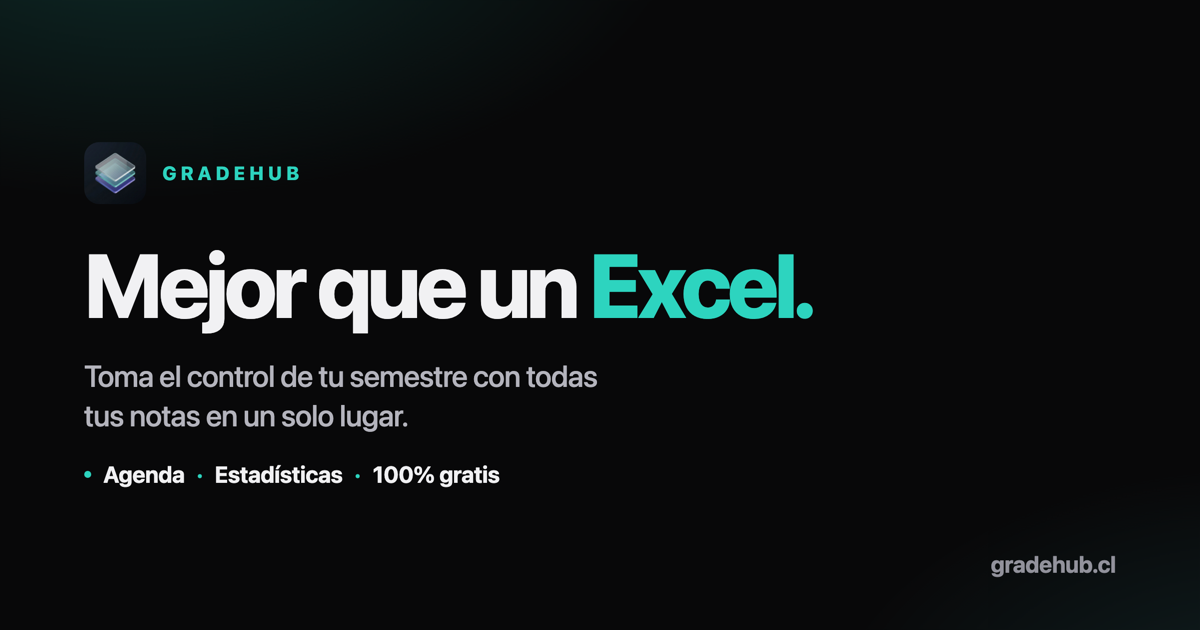
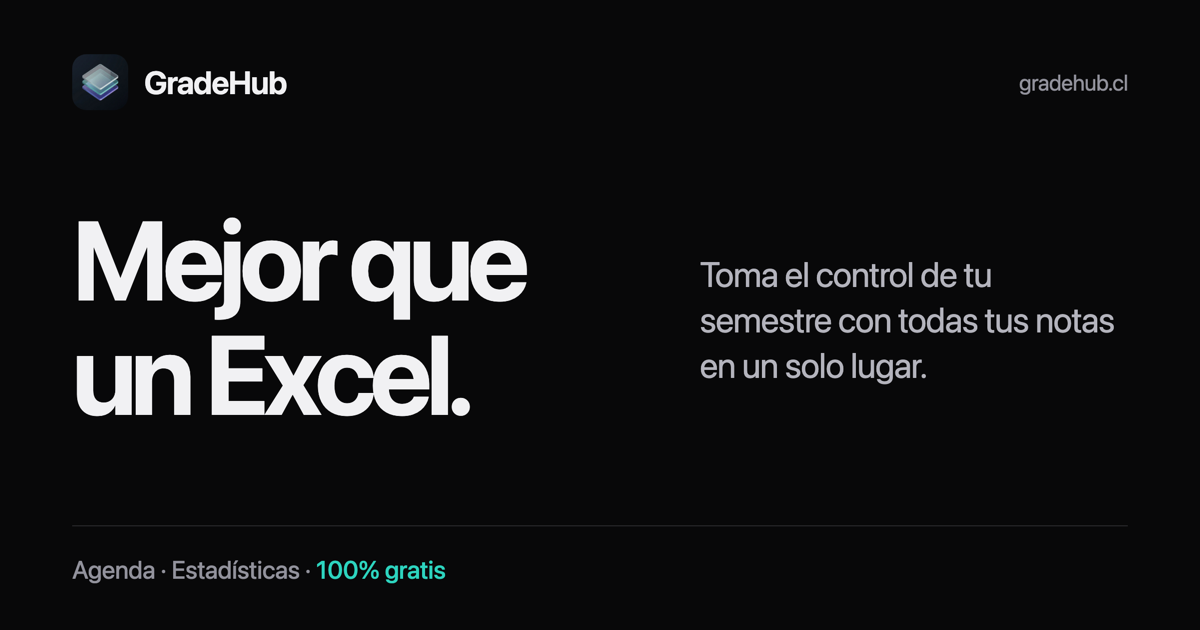
Que compartir GradeHub refleje la claridad de la app

diff --git a/bin/og-editorial.html b/bin/og-editorial.html
@@ -1,0 +1,68 @@
+<!doctype html>
+<!--
+GradeHub · tarjeta social editorial. Fuente de ../og-v2.png.
+Composición: marca como cabecera, titular y bajada en dos columnas,
+claim subordinado en el pie. Sin notas ficticias ni colores del semáforo.
+Los tokens vienen del tema oscuro de styles.css. El ícono es el original.
+BlinkMacSystemFont primero: -apple-system sola puede caer en serif en headless.
+
+Desde la raíz del repo, en macOS (Chrome y sips):
+  OG_TMP=$(mktemp -d /tmp/gradehub-og.XXXXXX)
+  /Applications/Google\ Chrome.app/Contents/MacOS/Google\ Chrome \
+    --headless=new --disable-gpu --hide-scrollbars --allow-file-access-from-files \
+    --user-data-dir="$OG_TMP/profile" --force-device-scale-factor=2 \
+    --window-size=1200,630 --screenshot="$OG_TMP/og-2x.png" \
+    "file://$PWD/bin/og-editorial.html"
+  sips -z 630 1200 "$OG_TMP/og-2x.png" --out og-v2.png
+
+Esperado: 1200 × 630, PNG de menos de 200 000 bytes.
+Este HTML es fuente de diseño offline; bin/ ya está excluido de dist/.
+-->
+<html lang="es">
+<head>
+  <meta charset="utf-8">
+  <meta name="viewport" content="width=1200">
+  <title>GradeHub · Mejor que un Excel.</title>
+  <style>
+    :root {
+      --bg:#080809;
+      --card:#111113;
+      --primary:#2dd4bf;
+      --accent:#56e2e8;
+      --fg:#f1f1f3;
+      --fg2:#b4b4bd;
+      --fg3:#92929c;
+      --font-ui:BlinkMacSystemFont,-apple-system,'Segoe UI',sans-serif;
+    }
+    * { box-sizing:border-box; }
+    html,body { margin:0; width:1200px; height:630px; overflow:hidden; }
+    body { background:var(--bg); color:var(--fg); font-family:var(--font-ui); }
+    .sheet { width:100%; height:100%; padding:54px 72px 44px; display:flex; flex-direction:column; }
+    .masthead { display:flex; align-items:center; justify-content:space-between; }
+    .brand { display:flex; align-items:center; gap:16px; }
+    .brand img { display:block; width:56px; height:56px; border-radius:14px; }
+    .brand-name { font-size:32px; font-weight:650; letter-spacing:-1.1px; }
+    .domain { font-size:22px; color:var(--fg3); letter-spacing:-.3px; }
+    .story { flex:1; display:grid; grid-template-columns:580px 1fr; gap:48px; align-items:center; padding-bottom:5px; }
+    h1 { margin:0; font-size:112px; line-height:1.02; font-weight:700; letter-spacing:-6px; }
+    h1 span { display:block; }
+    .description { margin:8px 0 0; font-size:35px; line-height:1.3; font-weight:400; letter-spacing:-.8px; color:var(--fg2); }
+    .footer { border-top:1px solid color-mix(in srgb,var(--fg3) 24%,var(--bg)); padding-top:27px; display:flex; align-items:center; }
+    .claim { margin:0; color:var(--fg3); font-size:25px; line-height:1.3; font-weight:450; letter-spacing:-.25px; }
+    .claim strong { font-weight:500; color:var(--primary); }
+  </style>
+</head>
+<body>
+  <main class="sheet">
+    <header class="masthead">
+      <div class="brand"><img src="../icon-512.png" alt=""><span class="brand-name">GradeHub</span></div>
+      <span class="domain">gradehub.cl</span>
+    </header>
+    <section class="story">
+      <h1><span>Mejor que</span><span>un Excel.</span></h1>
+      <p class="description">Toma el control de tu semestre con todas tus notas en un solo lugar.</p>
+    </section>
+    <footer class="footer"><p class="claim">Agenda · Estadísticas · <strong>100% gratis</strong></p></footer>
+  </main>
+</body>
+</html>
